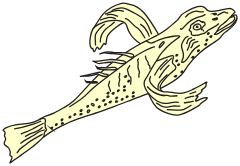
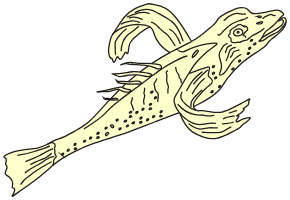
Map: sea creatures a little larger, fish further out to sea

Changed region(s): [[0.0, 0.0, 0.9917, 0.994], [0.7292, 0.4518, 0.7583, 0.4819]]

diff --git a/map.js b/map.js
@@ -80,8 +80,8 @@
   // Each drawing's size is baked into its PNG (see loadCreature).
   const CREATURES = [
     { id: 'mermaid', lat: 15.6565, lng: -96.5665 },  // off Mermejita
-    { id: 'fish2',   lat: 15.6588, lng: -96.5525 },  // off Mazunte
-    { id: 'fish',    lat: 15.6578, lng: -96.5440 },  // off San Agustinillo
+    { id: 'fish2',   lat: 15.6558, lng: -96.5535 },  // off Mazunte
+    { id: 'fish',    lat: 15.6548, lng: -96.5420 },  // off San Agustinillo
     { id: 'octopus', lat: 15.6558, lng: -96.5285 },  // off Zipolite
     { id: 'clam',    lat: 15.6548, lng: -96.5160 }   // off Zipolite
   ];

diff --git a/map.html b/map.html
@@ -31,6 +31,6 @@
   </main>
 
   <script src="https://cdnjs.cloudflare.com/ajax/libs/maplibre-gl/4.7.1/maplibre-gl.min.js"></script>
-  <script src="map.js?v=12"></script>
+  <script src="map.js?v=13"></script>
 </body>
 </html>
